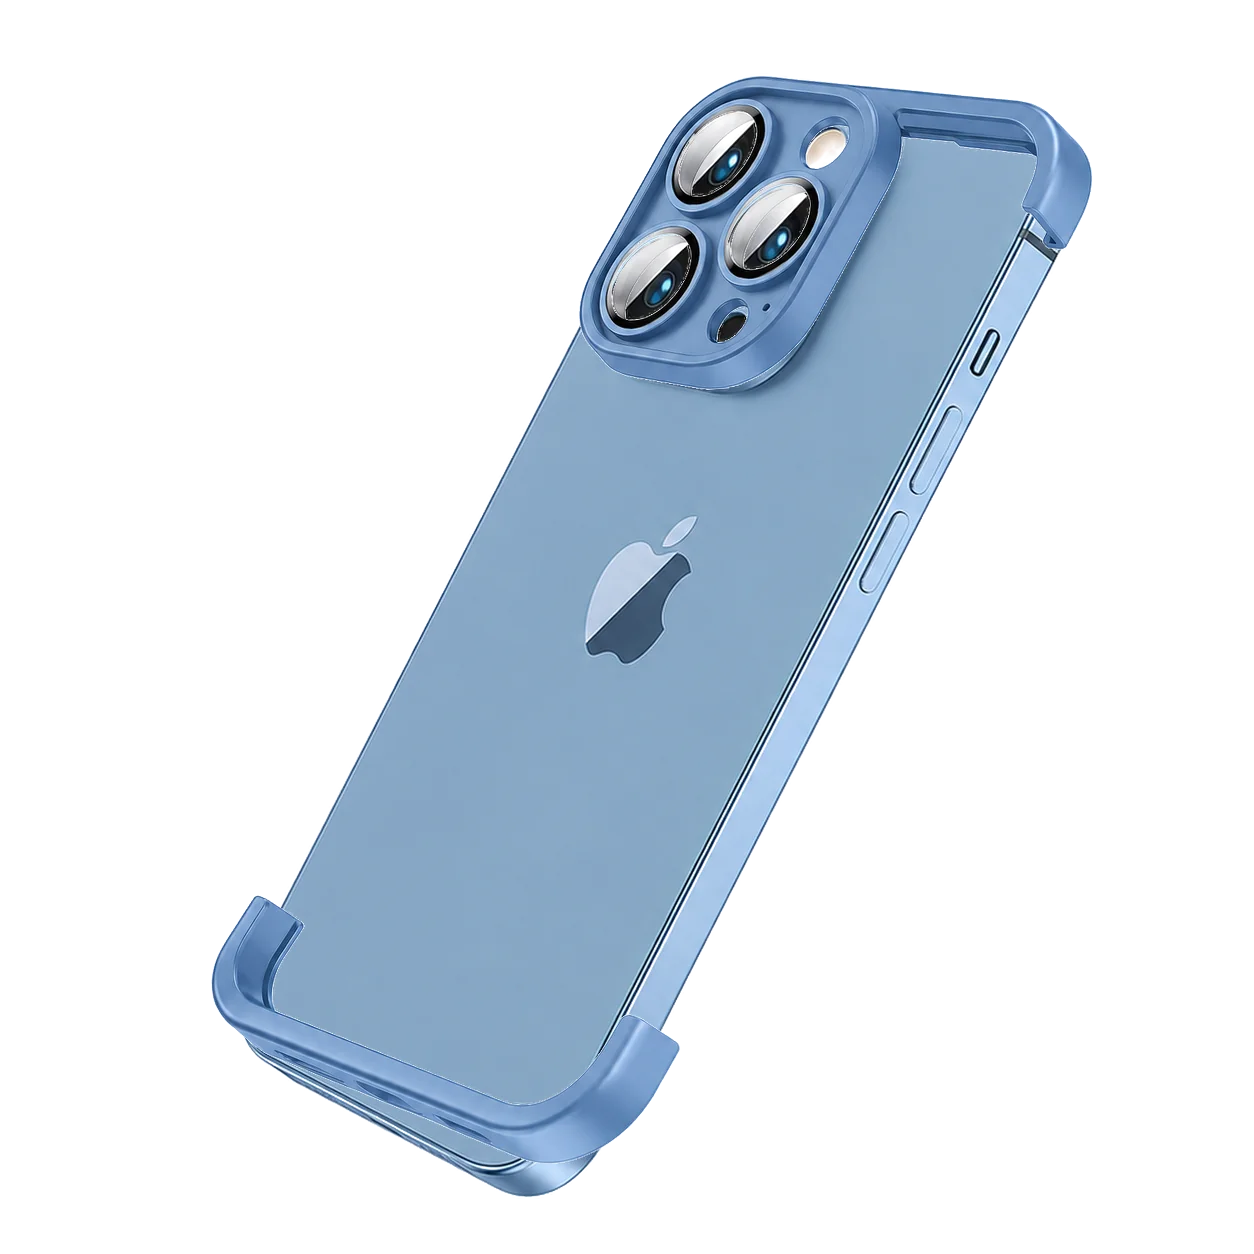
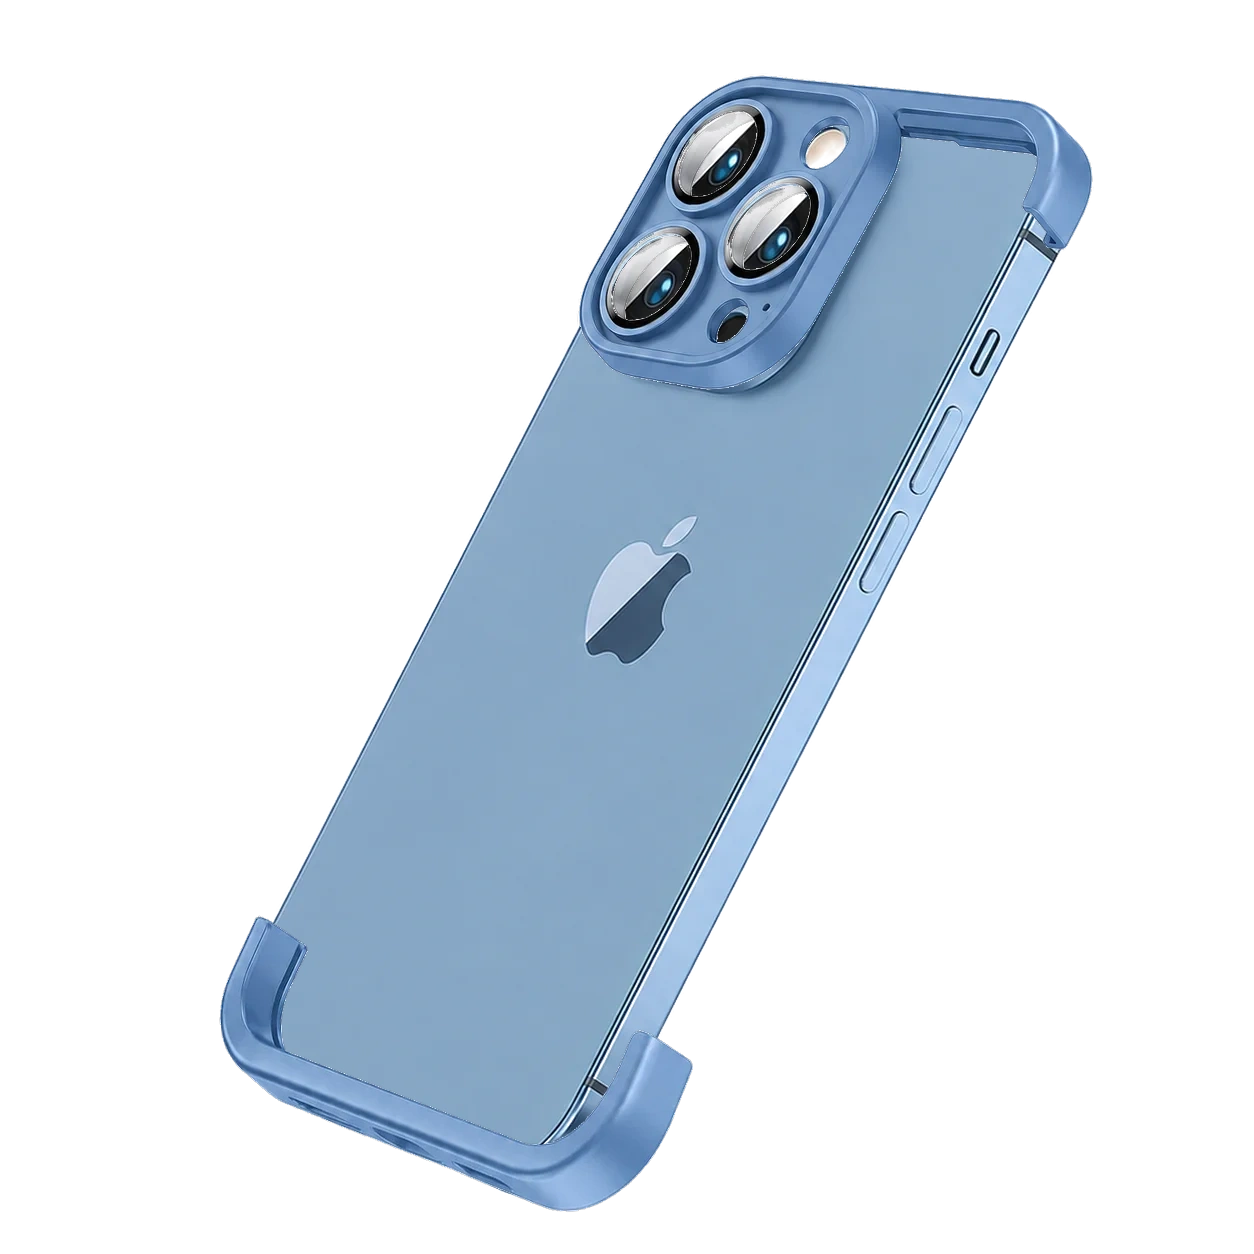
fix(3d-showcase): precision align bottom bumper guard on iPhone chassis and remove HUD overlays

diff --git a/webgl_exploded.js b/webgl_exploded.js
@@ -256,43 +256,6 @@
       targetRotY = 0;
     });
 
-    // 7. Interactive HUD Controls
-    const snapBtn = document.getElementById('webglSnapBtn');
-    const snapBtnText = document.getElementById('webglSnapBtnText');
-    const loopBtn = document.getElementById('webglLoopBtn');
-    const loopBtnText = document.getElementById('webglLoopBtnText');
-    const statusText = document.getElementById('webglStatusText');
-
-    if (snapBtn) {
-      snapBtn.addEventListener('click', (e) => {
-        e.preventDefault();
-        isAutoLoop = false;
-        if (loopBtn) {
-          loopBtn.classList.remove('active');
-          if (loopBtnText) loopBtnText.textContent = 'PAUSED';
-        }
-        manualAssembled = !manualAssembled;
-        targetProgress = manualAssembled ? 0.0 : 1.0;
-        if (snapBtnText) {
-          snapBtnText.textContent = manualAssembled ? 'EXPLODE' : 'ASSEMBLE';
-        }
-      });
-    }
-
-    if (loopBtn) {
-      loopBtn.addEventListener('click', (e) => {
-        e.preventDefault();
-        isAutoLoop = !isAutoLoop;
-        if (isAutoLoop) {
-          loopBtn.classList.add('active');
-          if (loopBtnText) loopBtnText.textContent = 'LOOPING';
-        } else {
-          loopBtn.classList.remove('active');
-          if (loopBtnText) loopBtnText.textContent = 'PAUSED';
-        }
-      });
-    }
-
     function easeOutCubic(t) {
       return 1 - Math.pow(1 - Math.max(0, Math.min(1, t)), 3);
     }
@@ -302,7 +265,7 @@
       return t < 0.5 ? 2 * t * t : 1 - Math.pow(-2 * t + 2, 2) / 2;
     }
 
-    // 8. Main 60 FPS Render Loop: Dynamic "Combine and Go" Animation
+    // 7. Main 60 FPS Render Loop: Pure, Seamless "Combine and Go" 3D Product Showcase
     const clock = new THREE.Clock();
 
     function animate() {
@@ -312,54 +275,31 @@
 
       const delta = Math.min(clock.getDelta(), 0.1);
 
-      if (isAutoLoop) {
-        animTime += delta;
-        // Continuous, rhythmic "Combine and Go" cycle: 5.2 seconds
-        // 0.0s - 0.8s: Detached floating hover
-        // 0.8s - 2.1s: The "COMBINE" glide: smooth precision docking directly onto the phone
-        // 2.1s - 3.4s: Locked assembled hold on the phone (zero gap, flush fit)
-        // 3.4s - 4.6s: The "GO" lift: smooth detachment lifting up into 3D space
-        // 4.6s - 5.2s: Gentle deceleration into hovering float
-        const cycleDuration = 5.2;
-        const cycle = animTime % cycleDuration;
+      animTime += delta;
+      // Continuous, hypnotic "Combine and Go" 3D product showcase loop: 5.2 seconds
+      // 0.0s - 0.8s: Detached floating hover in isometric space
+      // 0.8s - 2.1s: The "COMBINE" glide: smooth precision docking directly onto the phone
+      // 2.1s - 3.4s: Locked assembled hold on the phone (zero gap, 100% precision flush fit)
+      // 3.4s - 4.6s: The "GO" lift: smooth detachment lifting up into 3D isometric space
+      // 4.6s - 5.2s: Gentle deceleration into hovering float
+      const cycleDuration = 5.2;
+      const cycle = animTime % cycleDuration;
 
-        if (cycle < 0.8) {
-          targetProgress = 1.0;
-          if (statusText) statusText.textContent = '3D FRAMELESS ARMOR DETACHED • HOVER VIEW';
-          if (snapBtnText) snapBtnText.textContent = 'ASSEMBLE';
-        } else if (cycle < 2.1) {
-          const t = (cycle - 0.8) / 1.3;
-          targetProgress = 1.0 - easeOutCubic(t);
-          if (statusText) statusText.textContent = 'COMBINING: PRECISION DOCKING ONTO PHONE...';
-        } else if (cycle < 3.4) {
-          targetProgress = 0.0;
-          if (statusText) statusText.textContent = 'COVER LOCKED ON PHONE • 100% PRECISE FIT';
-          if (snapBtnText) snapBtnText.textContent = 'EXPLODE';
-        } else if (cycle < 4.6) {
-          const t = (cycle - 3.4) / 1.2;
-          targetProgress = easeInOutQuad(t);
-          if (statusText) statusText.textContent = 'DETACHING COVER FROM PHONE...';
-        } else {
-          targetProgress = 1.0;
-          if (statusText) statusText.textContent = '3D FRAMELESS ARMOR DETACHED • HOVER VIEW';
-          if (snapBtnText) snapBtnText.textContent = 'ASSEMBLE';
-        }
-      }
-
-      if (isAutoLoop) {
-        animProgress = targetProgress;
+      if (cycle < 0.8) {
+        targetProgress = 1.0;
+      } else if (cycle < 2.1) {
+        const t = (cycle - 0.8) / 1.3;
+        targetProgress = 1.0 - easeOutCubic(t);
+      } else if (cycle < 3.4) {
+        targetProgress = 0.0;
+      } else if (cycle < 4.6) {
+        const t = (cycle - 3.4) / 1.2;
+        targetProgress = easeInOutQuad(t);
       } else {
-        // Ultra-smooth interpolation for manual toggle button
-        animProgress += (targetProgress - animProgress) * 0.14;
-        if (Math.abs(targetProgress - animProgress) < 0.001) {
-          animProgress = targetProgress;
-        }
-        if (statusText) {
-          if (animProgress > 0.85) statusText.textContent = '3D FRAMELESS ARMOR DETACHED • HOVER VIEW';
-          else if (animProgress < 0.15) statusText.textContent = 'COVER LOCKED ON PHONE • 100% PRECISE FIT';
-          else statusText.textContent = targetProgress === 0.0 ? 'COMBINING: PRECISION DOCKING ONTO PHONE...' : 'DETACHING COVER FROM PHONE...';
-        }
+        targetProgress = 1.0;
       }
+
+      animProgress = targetProgress;
 
       // Update Mesh positions, scales and rotations:
       // When animProgress = 0: strictly locked at (0, 0, 4) with scale 1.0 and rotZ 0.0 (sub-pixel exact fit)!

diff --git a/index.html b/index.html
@@ -2276,21 +2276,6 @@
                 <source srcset="assets/blue_frameless_assembled.webp" type="image/webp">
                 <img src="assets/blue_frameless_assembled.webp" alt="3D Precision Bumper & Lens Armor View">
               </picture>
-
-              <!-- 3D Interactive HUD Overlay -->
-              <div class="webgl-hud-overlay">
-                <div class="webgl-hud-actions">
-                  <button type="button" class="webgl-hud-btn" id="webglSnapBtn" aria-label="Toggle Assemble or Explode">
-                    <svg width="12" height="12" viewBox="0 0 24 24" fill="none" stroke="currentColor" stroke-width="2.5"><circle cx="12" cy="12" r="10"></circle><line x1="12" y1="8" x2="12" y2="16"></line><line x1="8" y1="12" x2="16" y2="12"></line></svg>
-                    <span id="webglSnapBtnText">ASSEMBLE</span>
-                  </button>
-                  <button type="button" class="webgl-hud-btn active" id="webglLoopBtn" aria-label="Toggle Continuous 3D Loop">
-                    <svg width="12" height="12" viewBox="0 0 24 24" fill="none" stroke="currentColor" stroke-width="2.5"><polyline points="23 4 23 10 17 10"></polyline><polyline points="1 20 1 14 7 14"></polyline><path d="M20.49 9A9 9 0 0 0 5.64 5.64L1 10m22 4l-4.64 4.36A9 9 0 0 1 3.51 15"></path></svg>
-                    <span id="webglLoopBtnText">LOOPING</span>
-                  </button>
-                </div>
-                <div class="webgl-hud-status" id="webglStatusText">3D LENS ARMOR &amp; BUMPER EXPLODED</div>
-              </div>
             </div>
           </div>
 
